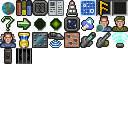
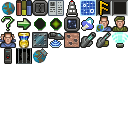
#467 Adds Orbital elevators for Alteirians.

Changed region(s): [[0.25, 0.375, 0.375, 0.5]]

diff --git a/src/main/java/org/openRealmOfStars/starMap/planet/Planet.java b/src/main/java/org/openRealmOfStars/starMap/planet/Planet.java
@@ -1704,6 +1704,10 @@ public class Planet {
           // No need for radiation well or dampener on small radiation planets
           tmp = null;
         }
+        if (tmp != null && tmp.isOrbitalElevator() && getOrbital() == null) {
+          // Orbital elevator requires orbital.
+          tmp = null;
+        }
         if (tmp != null) {
           if (tmp.getType() == BuildingType.FARM
               && planetOwnerInfo.getRace() == SpaceRace.MECHIONS) {
@@ -2250,6 +2254,7 @@ public class Planet {
           && prodResource >= requiredProdCost) {
         if (underConstruction instanceof Building
             && groundSize > buildings.size()) {
+          boolean canBeBuilt = true;
           Building building = (Building) underConstruction;
           if (building.getScientificAchievement() && map != null) {
             NewsData news = NewsFactory.makeScientificAchivementNews(
@@ -2318,22 +2323,47 @@ public class Planet {
               }
             }
           }
-          metal = metal - requiredMetalCost;
-          prodResource = prodResource - requiredProdCost;
-          if (governor != null) {
-            governor.setExperience(governor.getExperience()
-                + underConstruction.getProdCost() / 2);
-            governor.getStats().addOne(StatType.NUMBER_OF_BUILDINGS_BUILT);
+          if (building.isOrbitalElevator()) {
+            Building oldElevator = null;
+            if (getOrbital() != null) {
+              for (Building planetBuilding : getBuildingList()) {
+                if (planetBuilding.isOrbitalElevator()) {
+                  oldElevator = planetBuilding;
+                  break;
+                }
+              }
+              if (oldElevator != null) {
+                removeBuilding(oldElevator);
+              }
+            } else {
+              canBeBuilt = false;
+              msg = new Message(MessageType.CONSTRUCTION,
+                  getName() + " cannot be built " + underConstruction.getName()
+                  + " since there is no orbital on the planet.",
+                  Icons.getIconByName(Icons.ICON_STARBASE));
+              msg.setCoordinate(getCoordinate());
+              msg.setMatchByString(getName());
+              planetOwnerInfo.getMsgList().addNewMessage(msg);
+            }
           }
-          buildings.add((Building) underConstruction);
-          msg = new Message(MessageType.CONSTRUCTION,
-              getName() + " built " + underConstruction.getName(),
-              Icons.getIconByName(Icons.ICON_IMPROVEMENT_TECH));
-          msg.setCoordinate(getCoordinate());
-          msg.setMatchByString(getName());
-          planetOwnerInfo.getMsgList().addNewMessage(msg);
-          if (building.isSingleAllowed()) {
-            setUnderConstruction(getProductionList()[0]);
+          if (canBeBuilt) {
+            metal = metal - requiredMetalCost;
+            prodResource = prodResource - requiredProdCost;
+            if (governor != null) {
+              governor.setExperience(governor.getExperience()
+                  + underConstruction.getProdCost() / 2);
+              governor.getStats().addOne(StatType.NUMBER_OF_BUILDINGS_BUILT);
+            }
+            buildings.add((Building) underConstruction);
+            msg = new Message(MessageType.CONSTRUCTION,
+                getName() + " built " + underConstruction.getName(),
+                Icons.getIconByName(Icons.ICON_IMPROVEMENT_TECH));
+            msg.setCoordinate(getCoordinate());
+            msg.setMatchByString(getName());
+            planetOwnerInfo.getMsgList().addNewMessage(msg);
+            if (building.isSingleAllowed()) {
+              setUnderConstruction(getProductionList()[0]);
+            }
           }
         } else if (underConstruction instanceof Ship && !enemyOrbiting) {
           metal = metal - requiredMetalCost;

diff --git a/src/main/java/org/openRealmOfStars/starMap/planet/BuildingFactory.java b/src/main/java/org/openRealmOfStars/starMap/planet/BuildingFactory.java
@@ -39,7 +39,7 @@ public final class BuildingFactory {
    * Remember to increase this when new building is added to game.
    * It should be one bigger than last index.
    */
-  private static final int MAX_BUILDING = 61;
+  private static final int MAX_BUILDING = 64;
 
   /**
    * Component Basic mine
@@ -332,6 +332,18 @@ public final class BuildingFactory {
    * Component Planetary furnace
    */
   public static final int COMPONENT_PLANETARY_FURNACE = 60;
+  /**
+   * Component Orbital elevator Mk1
+   */
+  public static final int COMPONENT_ORBITAL_ELEVATOR_MK1 = 61;
+  /**
+   * Component Orbital elevator Mk2
+   */
+  public static final int COMPONENT_ORBITAL_ELEVATOR_MK2 = 62;
+  /**
+   * Component Orbital elevator Mk3
+   */
+  public static final int COMPONENT_ORBITAL_ELEVATOR_MK3 = 63;
 
   /**
    * Create planetary building with index
@@ -524,6 +536,15 @@ public final class BuildingFactory {
     case COMPONENT_PLANETARY_FURNACE:
       tmp = createProductionFacility(index);
       break; // Planetary furnace
+    case COMPONENT_ORBITAL_ELEVATOR_MK1:
+      tmp = createPlanetaryImprovement(index);
+      break; // Orbital elevator Mk1
+    case COMPONENT_ORBITAL_ELEVATOR_MK2:
+      tmp = createPlanetaryImprovement(index);
+      break; // Orbital elevator Mk2
+    case COMPONENT_ORBITAL_ELEVATOR_MK3:
+      tmp = createPlanetaryImprovement(index);
+      break; // Orbital elevator Mk3
     default:
       throw new IllegalArgumentException("No building found with index "
       + index + "!");
@@ -1268,6 +1289,50 @@ public final class BuildingFactory {
       tmp.setSingleAllowed(true);
       tmp.setMaintenanceCost(0.3);
       tmp.setDescription("Research matrix for robotic minds.");
+      return tmp;
+    }
+    if (index == COMPONENT_ORBITAL_ELEVATOR_MK1) {
+      tmp = new Building(index, "Orbital elevator Mk1",
+          Icons.getIconByName(Icons.ICON_ORBITAL_ELEVATOR),
+          BuildingType.FACTORY);
+      tmp.setProdCost(20);
+      tmp.setMetalCost(20);
+      tmp.setDescription("Orbital elevator that increases production"
+          + " and give happiness.");
+      tmp.setFactBonus(1);
+      tmp.setHappiness(1);
+      tmp.setSingleAllowed(true);
+      tmp.setOrbitalElevator(true);
+      return tmp;
+    }
+    if (index == COMPONENT_ORBITAL_ELEVATOR_MK2) {
+      tmp = new Building(index, "Orbital elevator Mk2",
+          Icons.getIconByName(Icons.ICON_ORBITAL_ELEVATOR),
+          BuildingType.FACTORY);
+      tmp.setProdCost(30);
+      tmp.setMetalCost(30);
+      tmp.setDescription("Orbital elevator that increases production"
+          + " and give happiness.");
+      tmp.setFactBonus(1);
+      tmp.setCredBonus(1);
+      tmp.setHappiness(1);
+      tmp.setSingleAllowed(true);
+      tmp.setOrbitalElevator(true);
+      return tmp;
+    }
+    if (index == COMPONENT_ORBITAL_ELEVATOR_MK3) {
+      tmp = new Building(index, "Orbital elevator Mk3",
+          Icons.getIconByName(Icons.ICON_ORBITAL_ELEVATOR),
+          BuildingType.FACTORY);
+      tmp.setProdCost(40);
+      tmp.setMetalCost(40);
+      tmp.setDescription("Orbital elevator that increases production"
+          + " and give happiness.");
+      tmp.setFactBonus(2);
+      tmp.setCredBonus(1);
+      tmp.setHappiness(1);
+      tmp.setSingleAllowed(true);
+      tmp.setOrbitalElevator(true);
       return tmp;
     }
 

diff --git a/src/main/java/org/openRealmOfStars/player/tech/TechFactory.java b/src/main/java/org/openRealmOfStars/player/tech/TechFactory.java
@@ -130,7 +130,8 @@ public final class TechFactory {
    * Defense tech names for level 2
    */
   public static final String[] DEFENSE_TECH_LEVEL2_NAMES = {"Shield Mk2",
-      "Armor plating Mk2", "Planetary defense turret Mk1" };
+      "Armor plating Mk2", "Planetary defense turret Mk1",
+      "Orbital elevator Mk1" };
   /**
    * Defense tech names for level 3
    */
@@ -155,7 +156,8 @@ public final class TechFactory {
    * Defense tech names for level 5
    */
   public static final String[] DEFENSE_TECH_LEVEL5_NAMES = {"Shield Mk5",
-      "Armor plating Mk5", "Planetary defense turret Mk2", "Jammer Mk2" };
+      "Armor plating Mk5", "Planetary defense turret Mk2", "Jammer Mk2",
+      "Orbital elevator Mk2"};
   /**
    * Defense tech names for level 6
    */
@@ -175,7 +177,8 @@ public final class TechFactory {
    * Defense tech names for level 8
    */
   public static final String[] DEFENSE_TECH_LEVEL8_NAMES = {"Shield Mk8",
-      "Armor plating Mk8", "Planetary defense turret Mk3" };
+      "Armor plating Mk8", "Planetary defense turret Mk3",
+      "Orbital elevator Mk3"};
   /**
    * Defense rare tech names for level 8.
    */
@@ -648,8 +651,17 @@ public final class TechFactory {
           tech.setSpaceRaces(SpaceRace.ALTEIRIANS);
         } else if (techName.startsWith("Planetary defense turret Mk")
             || techName.startsWith("Orbital shield")
-            || techName.equals("Space academy")) {
+            || techName.equals("Space academy")
+            || techName.startsWith("Orbital elevator Mk")) {
           tech.setImprovement(techName);
+          if (techName.startsWith("Planetary defense turret Mk")) {
+            tech.setExcludeList(true);
+            tech.setSpaceRaces(SpaceRace.ALTEIRIANS);
+          }
+          if (techName.startsWith("Orbital elevator Mk")) {
+            tech.setExcludeList(false);
+            tech.setSpaceRaces(SpaceRace.ALTEIRIANS);
+          }
         } else {
           tech.setComponent(techName);
         }
@@ -659,6 +671,8 @@ public final class TechFactory {
           tech.setIcon(Icons.getIconByName(Icons.ICON_ARMOR));
         } else if (techName.startsWith("Planetary defense turret Mk")) {
           tech.setIcon(Icons.getIconByName(Icons.ICON_PLANETARY_TURRET));
+        } else if (techName.startsWith("Orbital elevator Mk")) {
+          tech.setIcon(Icons.getIconByName(Icons.ICON_ORBITAL_ELEVATOR));
         } else if (techName.startsWith("Jammer Mk")) {
           tech.setIcon(Icons.getIconByName(Icons.ICON_CIRCUIT_BOARD));
         } else if (techName.startsWith("Space academy")) {

diff --git a/src/main/java/org/openRealmOfStars/starMap/planet/construction/Building.java b/src/main/java/org/openRealmOfStars/starMap/planet/construction/Building.java
@@ -121,6 +121,11 @@ public class Building extends Construction {
    */
   private boolean broadcaster;
   /**
+   * Flag for orbital Elevator.
+   * Only single one of these buildings are allowed and orbital is required.
+   */
+  private boolean orbitalElevator;
+  /**
    * Construct building for planet
    * @param index Unique number for building
    * @param name Building name
@@ -623,5 +628,22 @@ public class Building extends Construction {
    */
   public void setBroadcaster(final boolean broadcaster) {
     this.broadcaster = broadcaster;
+  }
+
+  /**
+   * Is building orbital elevator. There can be only one orbital elevator
+   * and requires orbital building.
+   * @return True or false
+   */
+  public boolean isOrbitalElevator() {
+    return orbitalElevator;
+  }
+
+  /**
+   * Set orbital elevator flag.
+   * @param orbitalElevator Flag for orbital elevator.
+   */
+  public void setOrbitalElevator(final boolean orbitalElevator) {
+    this.orbitalElevator = orbitalElevator;
   }
 }

diff --git a/src/main/java/org/openRealmOfStars/gui/icons/Icons.java b/src/main/java/org/openRealmOfStars/gui/icons/Icons.java
@@ -405,6 +405,10 @@ public final class Icons {
    * Prison icon
    */
   public static final String ICON_PRISON = "IconPrison";
+  /**
+   * Orbital elevator
+   */
+  public static final String ICON_ORBITAL_ELEVATOR = "IconOrbitalElevator";
 
   /**
    * List of Icon
@@ -703,6 +707,8 @@ public final class Icons {
     icon = new Icon16x16(image, 0, 3, ICON_PHOTON_TORPEDO);
     addIcon(icon);
     icon = new Icon16x16(image, 1, 3, ICON_PRISON);
+    addIcon(icon);
+    icon = new Icon16x16(image, 2, 3, ICON_ORBITAL_ELEVATOR);
     addIcon(icon);
   }
 

diff --git a/src/main/java/org/openRealmOfStars/player/tech/TechList.java b/src/main/java/org/openRealmOfStars/player/tech/TechList.java
@@ -348,7 +348,8 @@ public class TechList {
       if (ownComponent != null) {
         ShipComponent component = ShipComponentFactory.createByName(
             tech.getComponent());
-        if (component.getType() == ownComponent.getType()
+        if (component != null
+            && component.getType() == ownComponent.getType()
             && ownTech.getLevel() > tech.getLevel()) {
           return true;
         }
